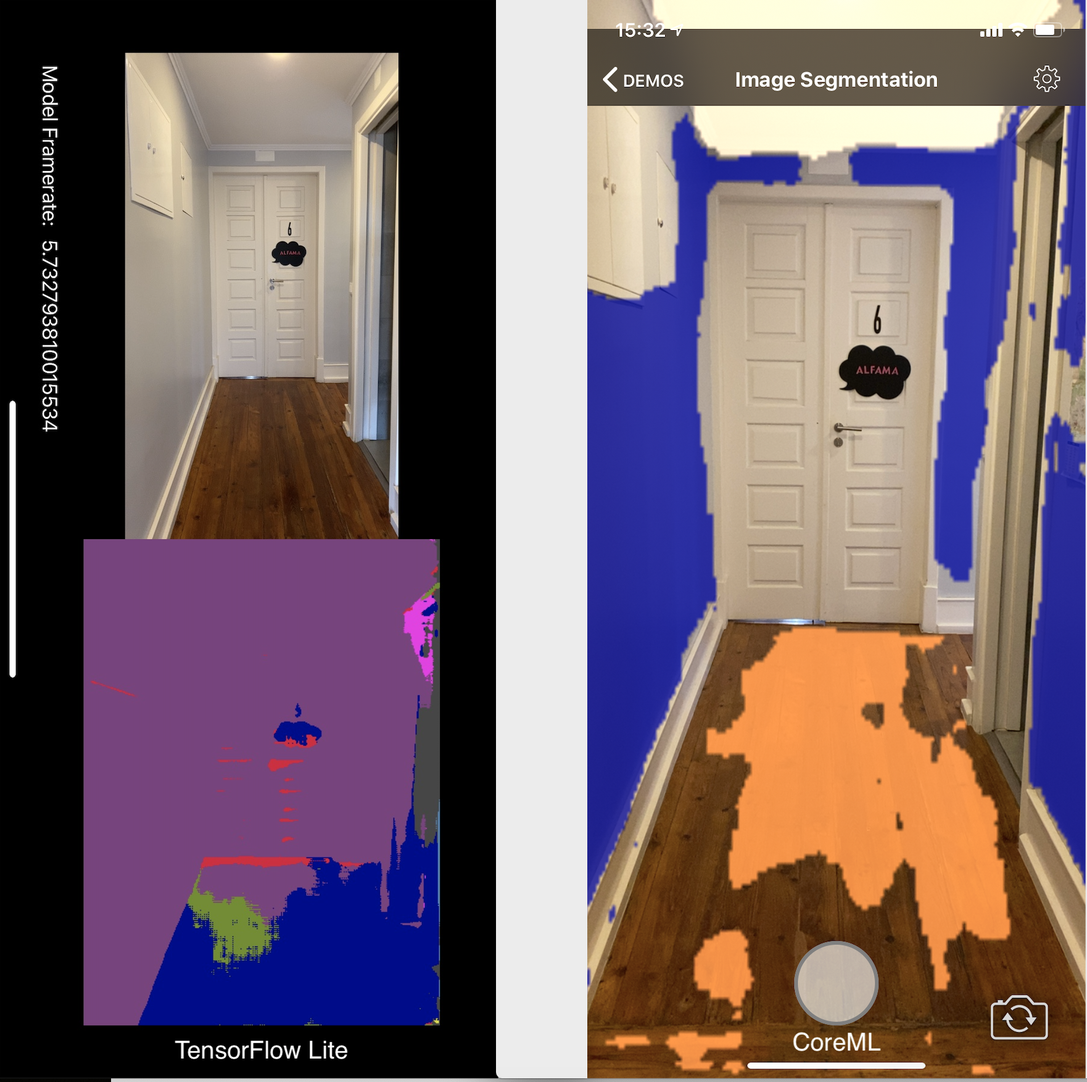
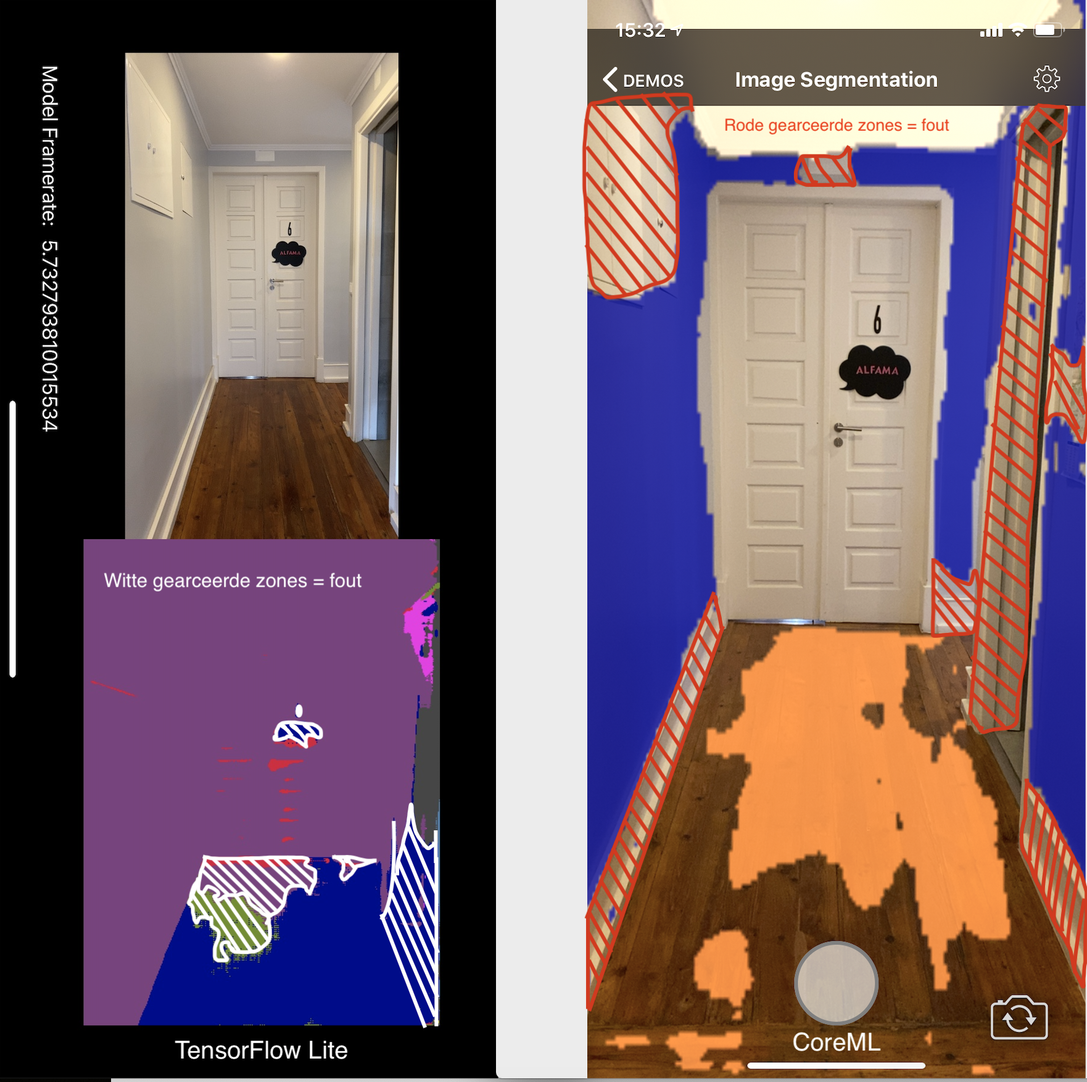
Add end of onderzoek + begin of resultaten

diff --git a/bachproef/methodologie.tex b/bachproef/methodologie.tex
@@ -59,18 +59,18 @@ Segmentatie is het opsplitsen van een bepaald beeld in verschillende segmenten. 
 De 2de en meest cruciale factor is de correctheid van het AI-framework voor de verschillende soorten AI-eigenschappen. Het is belangrijk dat het framework betrouwbaar is en dus geen foute oplossing zal terug geven, anders zal dit verkeerd doorgegeven worden aan de visuele kant van de applicatie en zal de route verkeerd worden aangegeven. Om de correctheid van elk AI-framework te testen heeft men opnieuw de diverse AI-eigenschappen onder de loep genomen.
 
 \subsubsection{Correctheid - 1.  Objectdetectie}
-Om de objectdetectie te evalueren heeft men geobserveerd of het framework de juiste positie van het gerelateerde object aangeeft , alsook het percentage dat de correctie voorstelt werd in acht gehouden.
+Om de objectdetectie te evalueren heeft men geobserveerd of het framework de juiste positie van het gerelateerde object aangeeft , alsook het percentage dat de correctie voorstelt werd in acht gehouden. Dit proces werd 29 keer herhaald, de resultaten werden gebundelend en geëvalueerd. 
 
 \subsubsection{Correctheid - 2. Menssegmentatie}
-Bij de evaluatie van de menssegmentatie werd er gekeken of het computer gegenereerde oppervlak overeen kwam met de vorm van de daadwerkelijke persoon. De foute zones werden aangeduid met markeringen om een duidelijk overzicht te krijgen.
+Bij de evaluatie van de menssegmentatie werd er gekeken of het computer gegenereerde oppervlak overeen kwam met de vorm van de daadwerkelijke persoon. De foute zones werden aangeduid met markeringen om een duidelijk overzicht te krijgen. Deze test werd ook 29 maal herhaald voor elk framework, de resultaten werden telkens naast elkaar gelegd. Om deze eigenschap te evalueren werd een puntensysteem toegepast, elke keer werd een punt uitgedeeld aan het framework die de persoon het beste kon omkaderen. Het framework die na de 29ste test het meeste punten had, werd verkozen als 'winnaar'.
 
 \subsubsection{Correctheid - 3. Luchtsegmentatie}
-Luchtsegmentatie werd op dezelfde manier beoordeeld als menssegmentatie. Deze twee segmentaties hebben een zeer gelijkaardige input en output, maar toch is er een groot verschil binnenin het framework. Het algoritme wordt op een andere manier getraind en zo is er toch een mogelijkheid dat deze twee segmentaties voor verschillende resultaten zorgen.
+Luchtsegmentatie werd op dezelfde manier beoordeeld als menssegmentatie. Deze twee segmentaties hebben een zeer gelijkaardige input en output, maar toch is er een groot verschil binnenin het framework. Het algoritme wordt op een andere manier getraind en zo is er toch een mogelijkheid dat deze twee segmentaties voor verschillende resultaten zorgen. Alsook werd deze 29 keer getest, het evaluatieproces werd op dezelfde manier uitgeoefend als bij menssegmentatie.
 
 \subsubsection{Correctheid - 4. Segmentatie binnen gebouwen}
 Segmentatie binnen gebouwen is de uitwerking die het meest gerelateerd is met de AI-output die voor deze bachelorproef van belang is. Het biedt namelijk de mogelijkheid om muren van grond te onderscheiden, dit is de hoofdreden waarom men AI in deze wayfinding-uitwerking wilt betrekken. Het is dus belangrijk dat deze AI-uitwerking grondig wordt geëvalueerd.
 
-De evaluatie verliep als volgt, voor beide AI-frameworks werd op identiek dezelfde plaats de test uitgevoerd. Door de relevantie van de technologie was het moeilijk om twee uitgewerkte voorbeelden (TensorFlow Lite en CoreML) te vinden die dezelfde dataset gebruikten. Men heeft deze vergeleken door te kijken hoe goed beide frameworks in hun opzet zijn geslaagd.
+De evaluatie verliep als volgt, voor beide AI-frameworks werd op identiek dezelfde plaats de test uitgevoerd. Door de relevantie van de technologie was het moeilijk om twee uitgewerkte voorbeelden (TensorFlow Lite en CoreML) te vinden die dezelfde dataset gebruikten. Men heeft deze vergeleken door te kijken hoe goed beide frameworks in hun opzet zijn geslaagd. Dit proces werd alsook 29 keer herhaald, ook deze eigenschap werd op dezelfde manier geëvalueerd zoals lucht en menssegmentatie.
 \begin{figure}[H]
 	\centering
 	\includegraphics[scale=0.3]{BeoordelingsTechnieken.png}
@@ -79,6 +79,9 @@ De evaluatie verliep als volgt, voor beide AI-frameworks werd op identiek dezelf
 
 \subsubsection{Toegankelijkheid}
 Een tweede belangrijke factor is de toegelankelijkheid van de AI-frameworks voor verschillende platformen. Zo is het belangrijk voor het bedrijf 'In The Pocket' dat ze een oplossing vinden dat schaalbaar is.
+
+\subsubsection{Consistentie}
+De derde en laatste factor die men onder de loep zal nemen is consistentie. Dit is een zeer cruciale factor binnen de wayfinding-context, het is belangrijk dat de eindgebruiker zich telkens op een correcte manier naar eindbestemming kan begeven met behulp van de toekomstige app, en niet in bv. 70 \% van de gevallen.
 
 \subsection{Bepalen van optimaal AI-framework}
 Het bepalen van welk AI-framework de optimale oplossing biedt werd gemaakt op basis van een overzicht van alle testen. Dit overzicht bevat staafdiagrammen die de resultaten van alle testen in kaart brengt, zo kan men rekening houden met de verschillende eigenschappen die elk framework te bieden heeft.
@@ -107,98 +110,95 @@ Zoals men eerder al heeft vermeld is objectdetectie een belangrijke factor binne
 		\includegraphics[scale=0.3]{ObjectDetection_Book.png}
 		\caption{Test met boek, TensorFlow Lite (58\%) \& CoreML (95 \%)}
 	\end{figure}
-In de eerste objectdetectie-test kan men reeds waarnemen dat het boek beter wordt gedetecteerd door het CoreML-framework. Ten eerste wordt het boek nauwkeuriger aangeduid door de rechthoek, en ten tweede is het percentage veel beter. Het percentage dat de zekerheid aanduidt is namelijk 95 \% bij CoreML en 58 \% bij TensorFlow Lite.
+In de eerste objectdetectie-test kan men reeds waarnemen dat het boek beter wordt gedetecteerd door het CoreML-framework. Ten eerste wordt het boek nauwkeuriger aangeduid door de rechthoek, en ten tweede is het percentage veel beter. Het percentage dat de zekerheid aanduidt is namelijk 95 \% bij CoreML en 58 \% bij TensorFlow Lite. Dit redeneringsproces heeft men 29 keer herhaald.
 
 \begin{figure}[H]
 	\centering
 	\includegraphics[scale=0.3]{ObjectDetection_Person.png}
 	\caption{Test met persoon, TensorFlow Lite (82\%) \& CoreML (100 \%)}
 \end{figure}
-De tweede test toont nogmaals aan dat CoreML beter scoort. De persoon wordt veel exacter aangeduid met behulp van het vierkant. Het correctheidspercentage is nogmaals beter bij het CoreML-framework, men kan zelfs opmerken dat dit framework met 100\% kan zeggen dat het object een persoon is, dit resultaat is zeer opmerkelijk.
+De tweede test toont nogmaals aan dat CoreML beter scoort. De persoon wordt veel exacter aangeduid met behulp van het vierkant. Het correctheidspercentage is nogmaals beter bij het CoreML-framework, men kan zelfs opmerken dat dit framework met 100\% kan zeggen dat het object een persoon is, dit resultaat is zeer opmerkelijk. Om te testen of de AI-frameworks consistent acteren heeft men dit redeneringsproces 29 maal herhaald.
 
 \begin{figure}[H]
 	\centering
 	\includegraphics[scale=0.35]{ObjectDetection_Bottle.png}
 	\caption{Test met waterfles, TensorFlow Lite (57\%) \& CoreML (90 \%)}
 \end{figure}
-Men kan opnieuw besluiten dat het framework van Apple een betere zaak doet om de waterfles te herkennen. Opnieuw kan men een significant correctheidsverschil opmerken tussen beide frameworks. CoreML kan in dit geval men bijna 30 \% meer zekerheid zeggen dat het vertoonde object een fles is.
+Men kan opnieuw besluiten dat het framework van Apple een betere zaak doet om de waterfles te herkennen. Opnieuw kan men een significant correctheidsverschil opmerken tussen beide frameworks. CoreML kan in dit geval men bijna 30 \% meer zekerheid zeggen dat het vertoonde object een fles is. Ook voor dit object werd deze test 29 maal herhaald.
 \begin{figure}[H]
 	\centering
 	\includegraphics[scale=0.38]{ObjectDetection_Clock.png}
 	\caption{Test met horloge, TensorFlow Lite (75 \%) \& CoreML (96 \%)}
 \end{figure}
-Andermaal kan men waarnemen dat het CoreML-framework betere resultaten levert als TensorFlow Lite, men kan in dit geval wel opmerken dat de detectie a.d.h.v het vierkant nauwkeuriger werd uitgevoerd door het TensorFlow Lite-framework. Opnieuw kan men een nauwkeurigheidsverschil opmerken van meer dan 20 \%.
+Andermaal kan men waarnemen dat het CoreML-framework betere resultaten levert als TensorFlow Lite, men kan in dit geval wel opmerken dat de detectie a.d.h.v het vierkant nauwkeuriger werd uitgevoerd door het TensorFlow Lite-framework. Opnieuw kan men een nauwkeurigheidsverschil opmerken van meer dan 20 \%. Dit redeneringsproces werd ook 29 maal herhaald om te achterhalen of de resultaten wel consistent zijn.
 
 \begin{figure}[H]
 	\centering
 	\includegraphics[scale=0.38]{ObjectDetection_Laptop.png}
 	\caption{Test met laptop, TensorFlow Lite (75 \%) \& CoreML (95 \%)}
 \end{figure}
-De laatste test verschilt van de anderen, men kan namelijk bemerken dat TensorFlow Lite het toestenbord kan bespeuren, terwijl CoreML niet in staat is om dit te doen. De nauwkeurigheid kent wel lagere cijfers, opnieuw is er een verschil van 20 \% op vlak van accuraatheid.
+De laatste test verschilt van de anderen, men kan namelijk bemerken dat TensorFlow Lite het toestenbord kan bespeuren, terwijl CoreML niet in staat is om dit te doen. De nauwkeurigheid kent wel lagere cijfers, opnieuw is er een verschil van 20 \% op vlak van accuraatheid. Alsook de laptoptest werd 29 maar herhaald. 
 	
-\subsubsection{Evaluatie}
-Men kan concluderen dat CoreML veel beter in staat is om de verschillende objecten te detecteren en vervolgens ook te herkennen. De verschillen tussen de beide frameworks is opmerkelijk, in bijna elk experiment scoort CoreML een veel beter resultaat (circa 20 \%) als TensorFlow Lite. Het is merkwaardig dat met zo een grote verschillen heeft gemeten, zeker als men er rekening mee houdt dat beide frameworks dezeflde dataset utiliseerden.
 
-Het eindresultaat uit deze testen zal met zekerheid een beslissingsfactor zijn voor het maken van de eindbeslissing.
-
-\newpage
 \subsection{Menssegmentatie}
 De tweede AI-eigenschap die men getest heeft is menssegmentatie, in deze eigenschap zal men de volledige foto gaan onderzoeken of er zich mensen in begeven. Indien er zich mensen in het beeld bevinden zal het algoritme deze aanduiden door een bepaald kleuroppervlak over deze objecten te plaatsen. De resultaten werden bekomen door gebruik te maken van de 'Fritz AI Studio' applicatie op twee verschillende apparaten, namelijk een iPhone 11 (camera: 12MP) (iOS) en een Huawei P20 Lite (camera: 16MP) (Android). In de documentatie van de 'Fritz AI Studio' applicatie kan men opmerken dat de Android-variant gebruik maakt van TensorFlow Lite en de iOS-variant CoreML utiliseert. Deze beide frameworks gebruiken hetzelfde voorgetrainde model, dit werd samengesteld door Fritz AI.
 
+\newpage
 \subsubsection{Test}
 
 \begin{figure}[H]
 	\centering
-	\includegraphics[scale=0.3]{PeopleSegmentation.png}
+	\includegraphics[scale=0.4]{PeopleSegmentation.png}
 	\caption{Test menssegmentatie, zonder foutaanduiding}
 \end{figure}
-Uit de resultaten van deze test kan men opnieuw aanschouwen dat het CoreML-framework een veel betere uitslag levert dan TensorFlow Lite. Ondanks dezelfde dataset slaagt CoreML er toch in om de persoon in de afbeelding bijna 100 \% correct aan te duiden, de uitkomst van het andere framework is niet nauwkeurig en kent zelfs grove fouten. Men kan concluderen dat het CoreML-framework veel nauwkeuriger is. In de onderstaande afbeelding kan men de foute zones waarnemen, de rode vlaktes tonen aan waar de persoon niet werd gedetecteerd, maar wel was. Het gele gebied duidt de zones aan waar de persoon werd gedetecteerd, maar niet was.
+Uit de resultaten van deze test kan men opnieuw aanschouwen dat het CoreML-framework een veel betere uitslag levert dan TensorFlow Lite. Ondanks dezelfde dataset slaagt CoreML er in deze test toch in om de persoon in de afbeelding bijna 100 \% correct aan te duiden, de uitkomst van het andere framework is niet nauwkeurig en kent zelfs grove fouten. Men kan in deze test concluderen dat het CoreML-framework veel nauwkeuriger is. In de onderstaande afbeelding kan men de foute zones waarnemen, de rode vlaktes tonen aan waar de persoon niet werd gedetecteerd, maar wel was. Het gele gebied duidt de zones aan waar de persoon werd gedetecteerd, maar niet was. Dit visueel redeneringsproces werd 29 maal herhaald, telkens kreeg het framework met de minste foute zones een punt, het framework dat na de 29ste test het meeste punt haalde zou dit deelexperiment 'winnen'.
+
+ De link tussen menssegmentatie en de wayfinding-context kan misschien ver te zoeken zijn, maar deze test zegt wel degelijk meer over de precisie van het AI-framework. Alsook is het mogelijk dat een groep mensen de weg kan versperren, in dit geval is het belangrijk dat deze groep wordt gedetecteerd door het algoritme, een zekere mensherkenning en detectie is dus zeker van belang.
 
 \begin{figure}[H]
 	\centering
-	\includegraphics[scale=0.3]{PeopleSegmentation_MetFoutAanduiding.png}
+	\includegraphics[scale=0.45]{PeopleSegmentation_MetFoutAanduiding.png}
 	\caption{Test menssegmentatie, met foutaanduiding}
 \end{figure}
-\subsubsection{Evaluatie}
-De link tussen menssegmentatie en de wayfinding-context kan misschien ver te zoeken zijn, maar deze test zegt wel degelijk meer over de precisie van het AI-framework. Alsook is het mogelijk dat een groep mensen de weg kan versperren, in dit geval is het belangrijk dat deze groep wordt gedetecteerd door het algoritme, een zekere mensherkenning en detectie is dus zeker van belang.
-
-Uit de resultaten van deze test kan men dus opnieuw concluderen dat het CoreML-framework een betere keuze is op het vlak van precisie en correctheid.
 
 \subsection{Luchtsegmentatie}
 Om de AI-frameworks andermaal op nauwkeurig -en correctheid te testen, heeft men ervoor gekozen om ook luchtsegmentatie te observeren. Luchtsegmentatie zal net zoals menssegmentatie gekleurde vlekken plaatsen over de regio's waar men lucht detecteert. Alsook kan men bij deze AI-eigenschap denken dat dit geen direct verband heeft met de wayfinding context, maar toch geeft dit een extra beeld over hoe correct en nauwkeurig het AI-algoritme de verschillende vlakken kan onderscheiden. Zoals men eerder al aangaf in de methodologie zal men de foute zones aanduiden, het algoritme met het merendeel aan foute zones zal mogelijks niet worden geselecteerd als 'eindwinnaar'. Om deze test te kunnen uitvoeren werd de applicatie 'AI Fritz Studio' gebruikt, ook in dit onderzoek heeft men de applicatie beproeft op twee verschillende apparaten. Het CoreML-framework werd getest op een iPhone 11 (camera: 12MP), TensorFlow Lite werd uitgevoerd op een Huawei P20 Lite (camera: 16MP) (Android). Beide frameworks werden getrained met een dataset die werd opgesteld door Fritz AI.
 
+\newpage
 \subsubsection{Test}
 \begin{figure}[H]
 	\centering
-	\includegraphics[scale=0.32]{SkySegmentation.png}
+	\includegraphics[scale=0.4]{SkySegmentation.png}
 	\caption{Test luchtsegmentatie, zonder foutaanduiding}
 \end{figure}
 
-De test om de uitkomst van luchtsegmentatie te bekomen werd uitgevoerd in Lissabon in een hotelkamer. Het uitzicht bevat een antenne die de algoritmen een extra moeilijkheid zou kunnen bezorgen bij het uitvoeren van dit experiment, de resultaten zijn dan ook zeer interessant. In de onderstaande foto kan men de foute zones waarnemen, deze worden  aangegeven door middel van de roze zones. Men kan ook alvast opmerken dat de beeldkwaliteit van de camera een grote rol speelt bij dit experiment, de Core. De zeer kleine vlakken tussen de spaken van de antennen zorgen voor foute resultaten. Hieruit kan men bepalen dat het voor beide frameworks moeilijk is om zeer kleine vlakken te koppelen aan een bepaald segment.
+De test om de uitkomst van luchtsegmentatie te bekomen werd uitgevoerd in Lissabon in een hotelkamer. Het uitzicht bevat een antenne die de algoritmen een extra moeilijkheid zou kunnen bezorgen bij het uitvoeren van dit experiment, de resultaten zijn dan ook zeer interessant. In de onderstaande foto kan men de foute zones waarnemen, deze worden  aangegeven door middel van de roze zones. Men kan ook alvast opmerken dat de beeldkwaliteit van de camera een grote rol speelt bij dit experiment, de Core. De zeer kleine vlakken tussen de spaken van de antennen zorgen voor foute resultaten. Hieruit kan men bepalen dat het voor beide frameworks moeilijk is om zeer kleine vlakken te koppelen aan een bepaald segment. Dit visueel redeneringsproces werd ook 29 maal herhaald, en ook hier werd een puntensysteem gebruikt om de eindwinnaar te bepalen. In elke test kreeg het framework met het minste aantal foute zones een punt, het framework met het meeste punten na de 29ste test werd bekroond als 'winnaar' van dit deelexperiment. Uit de resultaten van dit deelexperiment kan men dus verder bepalen of de frameworks voldoen aan de nodige aspecten op vlak van nauwkeurig -en correctheid..
 \begin{figure}[H]
 	\centering
-	\includegraphics[scale=0.37]{SkySegmentation_MetFoutAanduiding.png}
+	\includegraphics[scale=0.4]{SkySegmentation_MetFoutAanduiding.png}
 	\caption{Test luchtsegmentatie, met foutaanduiding}
 \end{figure}
 
-\subsubsection{Evaluatie}
-Uit het onderzoek van dit deelexperiment kan men verder bepalen of de frameworks voldoen aan de nodige aspecten op vlak van nauwkeurig -en correctheid. De resultaten zijn toch wel opmerkelijk, ondanks het verschil in beeldkwaliteit slaagden beide frameworks er daadwerkelijk in om het grootste deel van de lucht te herkennen en aan te duiden. Toch kan men enkele verschillen opmerken, het TensorFlow Lite-framework kon een betere grens trekken tussen de gebouwen en de lucht. Anderzijds kan men zien dat het CoreML-framework de antenne  kon herkennen als een gebouw. Verder werden er bij CoreML nog andere gebouwen ontdekt (groene zones). In het algemeen kan men dus beschouwen dat beide frameworks er voor circa 95 \% in slaagden om de lucht te herkennen en aan te duiden, TensorFlow Lite bracht in dit experiment een beter resultaat.
 
 \subsection{Segmentatie binnen gebouwen}
 Segmentatie binnen gebouwen is de AI-eigenschap die het meeste zal doorwegen in het bepalen van het eindresultaat. De informatie die men uit dit experiment kan vergaren leunt het dichtste bij wat men nodig heeft om de wayfinding context te optimaliseren. Ten eerste is het zeer interessant om te zien hoe de AI-frameworks zullen reageren op de experimenten. Ten tweede is het ook zeer belangrijk om te weten of de bepaalde frameworks de muren of vloer binnen de opgegeven ruimte kan ontdekken + aanduiden. 
 
-Tijdens het exploratief onderzoek was het niet vanzelfsprekend om twee uitgewerkte voorbeelden (TensorFlow Lite + CoreML) te vinden die gebruik maakten van dezelfde dataset. Daarom is het  experiment als volgt te werk gegaan, men testte twee uitgewerkte voorbeelden die elk een verschillende dataset utiliseerden. Men kan deze twee testresultaten dus niet rechtstreeks tegenover elkaar zetten. Alsnog kan men deze vergelijken met elkaar als men evalueert hoe goed beide frameworks in hun opzet zijn geslaagd. Het CoreML-framework werd getest door middel van de 'Fritz AI Studio' applicatie, deze maakt gebruik van een dataset die werd samengesteld door 'Fritz AI', de applicatie zal de volledige in kaart proberen brengen door middel van verschillende kleurvlekken. TensorFlow Lite werd getest door de 'Tiramisu' applicatie die werd gecreërd door Christian Kauten, deze applicatie is vooral gericht op het herkennen van de grond. Beide tests werden uitgevoerd door een iPhone 11. (camera: 12MP). 
+Tijdens het exploratief onderzoek was het niet vanzelfsprekend om twee uitgewerkte voorbeelden (TensorFlow Lite + CoreML) te vinden die gebruik maakten van dezelfde dataset. Daarom is het  experiment als volgt te werk gegaan, men testte twee uitgewerkte voorbeelden die elk een verschillende dataset utiliseerden. Men kan deze twee testresultaten dus niet rechtstreeks tegenover elkaar zetten. Alsnog kan men deze vergelijken met elkaar als men evalueert hoe goed beide frameworks in hun opzet zijn geslaagd. Het CoreML-framework werd getest door middel van de 'Fritz AI Studio' applicatie, deze maakt gebruik van een dataset die werd samengesteld door 'Fritz AI', de applicatie zal de volledige ruimte in kaart proberen brengen door middel van verschillende kleurvlekken. TensorFlow Lite werd getest door de 'Tiramisu' applicatie die werd gecreërd door Christian Kauten, deze applicatie is vooral gericht op het herkennen van de grond. Beide tests werden uitgevoerd met een iPhone 11. (camera: 12MP). 
 
 Om deze AI-eigenschap zo optimaal mogelijk te evalueren heeft men beide frameworks getest op 3 verschillende plaatsen, deze plaatsen werden eerder aangegeven in Figuur 3.2 in de methodologie.
 
 \subsubsection{Test 1}
 \begin{figure}[H]
 	\centering
-	\includegraphics[scale=0.35]{ImageSegmentation_1.png}
+	\includegraphics[scale=0.325]{ImageSegmentation_1.png}
 	\caption{Test 1: TensorFlow Lite (links) \& CoreML (rechts)}
 \end{figure}
 
-De eerste test werd uitgevoerd in een korte gang die op het einde uitmond in een ander verlengstuk, 
+De bovenstaande afbeelding toont hoe de eerste test is verlopen. Het TensorFlow Lite-framework zal in deze test zich focussen op het herkennen van grondoppervlaktes, het model is zo getrained. Het CoreML-framework is beter getrained, zoals men kan zien in de bovenstaande afbeelding kan dit framework de grond en muren detecteren, men zal zich voor dit framework vooral focussen op het detecteren van muren, de muurdetectie wordt als extra voordeel beschouwd.
+
+De gearceerde zones (wit voor TensorFlow Lite, rood voor CoreML) tonen aan welke plaatsen men niet kon detecteren, maar wel moesten gedetecteerd worden. Zoals men eerder heeft vermeld worden deze twee tests niet rechstreeks met elkaar vergeleken, als men het aantal gearceerde zones kritiekloos met elkaar zou vergelijken, dan zou dit voor verkeerde resultaten zorgen. Men kan namelijk constateren dat er veel meer muuroppervlaktes zijn dan grondoppervlaktes, de kans dat er dus meer fouten optreden bij het herkennen van de muren is dus groter.
+
+Dit redeneringsproces werd 29 keer herhaald, op deze manier kan men de consistentie van de frameworks testen,  'beginnersgeluk' wordt op deze manier vermeden. In elke iteratie werd gekeken welk framework het beste kon presteren in zijn doelopdracht, voor TensorFlow Lite ging men dus kijken hoeveel grondoppervlakte men kon herkennen, hetzelfde werd bij CoreML gedaan, maar dan met betrekking to muurherkenning. Het framework die het beste kon presteren kreeg in elke iteratie een punt. Na de 29ste iteratie werd gekeken welk framework de meeste punten had.
 
 \subsubsection{Test 2}
 \begin{figure}[H]
@@ -206,6 +206,11 @@ De eerste test werd uitgevoerd in een korte gang die op het einde uitmond in een
 	\includegraphics[scale=0.35]{ImageSegmentation_3.png}
 	\caption{Test 2: TensorFlow Lite (links) \& CoreML (rechts)}
 \end{figure}
+De tweede test verliep op dezelfde manier als de eerste (zie bovenstaande foto), alleen de locatie werd gewijzigd. Deze test werd uitgevoerd in een langere gang, op deze manier kon men testen of de frameworks ook het grondoppervlak en de muren kon herkennen die zich verder begeefden. 
+
+Ook in deze test werd er gekeken naar de foute gearceerde zones (wit voor TensorFlow Lite, rood voor CoreML). De regels die werden toegepast in de eerste test werden ook gebruikt in deze test, men kan in dit voorbeeld namelijk ook opmerken dat er veel meer muren aanwezig zijn als grond.
+
+In deze test kan men duidelijk constateren dat het TensorFlow Lite-framework een beter resultaat oplevert als CoreML. CoreML slaagt in de voorbeeld er niet in om het grootste deel van de muren aan te duiden. Dit redeneringsproces werd zoals de andere testen reeds 29 keer herhaald, de evaluatie verliep op dezelfde wijze als de eerste test.
 
 \subsubsection{Test 3}
 \begin{figure}[H]
@@ -214,9 +219,58 @@ De eerste test werd uitgevoerd in een korte gang die op het einde uitmond in een
 	\caption{Test 2: TensorFlow Lite (links) \& CoreML (rechts)}
 \end{figure}
 
+Om deze AI-eigenschap op een zo optimaal mogelijk manier te testen werd het derde experiment op een locatie uitgevoerd die niets gemeenschappelijk had met de vorige tests. De derde test werd uitgevoerd in een keuken, deze locatie bevat veel verschillende objecten die voor storing zouden kunnen zorgen. De resultaten in het bovenstaande voorbeeld zijn dan ook opmerkelijk.
 
-\subsubsection{Evaluatie}
+Om de resultaten te evalueren werd ook in dit voorbeeld gebruik gemaakt van foute zones die werden aangegeven door gearceerde vlekken. (wit voor TensorFlow Lite, rood voor CoreML). Men kan in dit voorbeeld constateren dat het TensorFlow Lite-framework er helemaal niet in slaagt om de grond te detecteren, een mogelijke factor is het weerkaatsen van het licht in de donkere stenen. Het resultaat van het CoreML-framework kent een beter resultaat, dit framework slaagt er wel degelijk in om de muren grotendeels te detecteren en aan te duiden. Ook deze test werd 29 maal herhaald, de regels uit de vorige twee testen werden hier ook toegepast. In dit voorbeeld zou het CoreML-framework een punt verdienen.
 
 \chapter{\IfLanguageName{dutch}{Resultaten}{Results}}
 \label{ch:resultaten}
+
+In dit hoofdstuk zal men de resultaten bespreken van de uitgevoerde testen, dit zal worden gedaan met behulp van grafieken om het overzicht te bewaren. De resultaten zullen eerst worden besproken per AI-eigenschap, op het einde van dit hoofdstuk zal men een algemene conclusie vormen.
+
+\section{Objectdetectie}
+
+\subsection{Test met boek}
+De resultaten van de eerste objectdetecttest zijn opmerkelijk, er is namelijk een zeer groot verschil tussen de 2 frameworks. CoreML haalde een gemiddelde van 88.9 \% (standaardafwijking: 10.41) terwijl TensorFlow Lite maar een gemiddelde haalde van 53.83 \% (standaardafwijking: 3.41), dit wilt zeggen dat het TensorFlow Lite-framework slechts in 53 van de 100 gevallen het boek correct zal herkennen en detecteren. Men kan wel constateren dat het CoreML-framework minder consistent is, de verschillende metingen zijn namelijk heel verpreid.
+
+\begin{figure}[H]
+	\centering
+	\includegraphics[scale=0.35]{Boxplots_Boek.png}
+	\caption{Boxplots test boek}
+\end{figure}
+\subsection{Test met persoon}
+
+De tweede test bracht eveneens zeer opmerkelijke resultaten, in de onderstaande boxplot kan men opmerken dat het CoreML-framework in bijna alle gevallen de persoon in kwestie met 100 \% zekerheid kon aanduiden. Het framework dat door TensorFlow wordt aangeboden scoort hier ook goed met een gemiddelde van 80 \% (standaardafwijking: 2.51). CoreML haalde in deze test een gemiddelde van 99.78 \% (standaardafwijking: 0.42), de lage waarde voor de standaardafwijking vertaalt zich in een zeer goede consistentie.
+\begin{figure}[H]
+	\centering
+	\includegraphics[scale=0.35]{Boxplots_Persoon.png}
+	\caption{Boxplots test persoon}
+\end{figure}
+\subsection{Test met fles}
+\begin{figure}[H]
+	\centering
+	\includegraphics[scale=0.35]{Boxplots_Fles.png}
+	\caption{Boxplots test fles}
+\end{figure}
+\subsection{Test met horloge}
+\begin{figure}[H]
+	\centering
+	\includegraphics[scale=0.35]{Boxplots_Horloge.png}
+	\caption{Boxplots test horloge}
+\end{figure}
+
+\section{Segmentatie}
+
+\subsection{Menssegmentatie}
+
+\subsection{Luchtsegmentatie}
+
+\subsection{Segmentatie binnen gebouwen}
+
+\subsubsection{Korte gang}
+
+\subsubsection{Lange gang}
+
+\subsubsection{Keuken}
+
 
